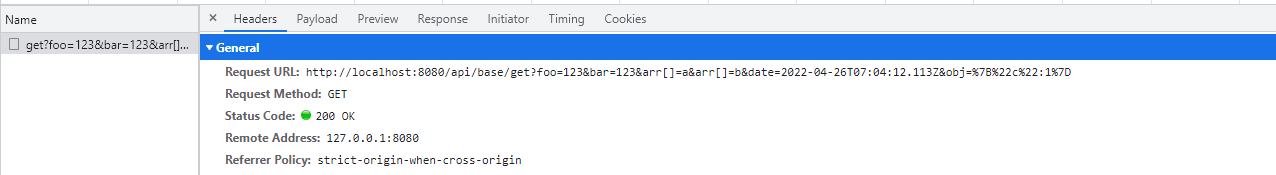
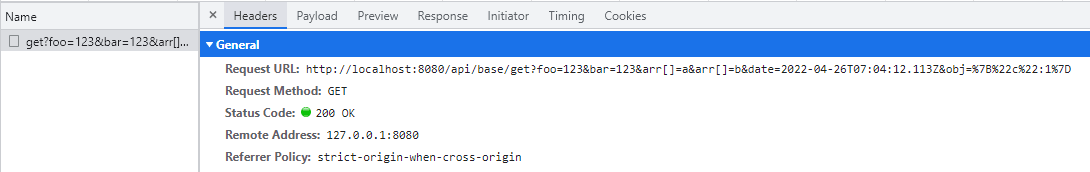
📃 docs: 添加效果图

diff --git a/docs/04.源码/04.使用Typescript重构Axios--处理GET请求的URL参数（二）.md b/docs/04.源码/04.使用Typescript重构Axios--处理GET请求的URL参数（二）.md
@@ -357,9 +357,11 @@ export default defineComponent({
 
 ```
 所有类型的请求结果：  
-效果图：  
-请求 ![效果图](/blog/img/source/axios-2.png)
-返回 ![效果图](/blog/img/source/axios-3.png)
+请求效果图： 
+![效果图](/blog/img/source/axios-2.png)
+![效果图](/blog/img/source/axios-3.png)  
+返回效果图： 
+![效果图](/blog/img/source/axios-4.png)
 ## 结语
 总结下碰到的新知识点：
 1. [谓词类型](https://www.tslang.cn/docs/handbook/advanced-types.html)
